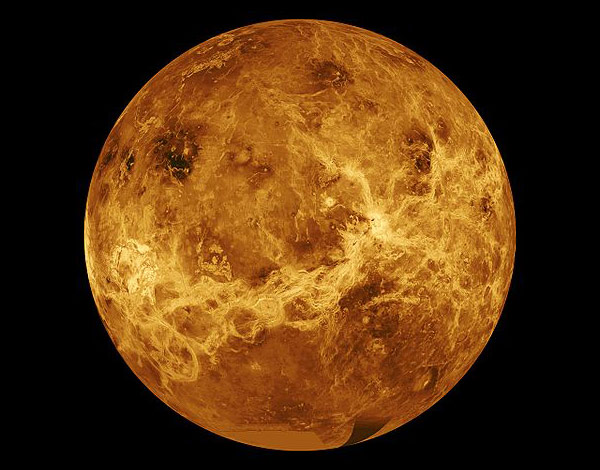
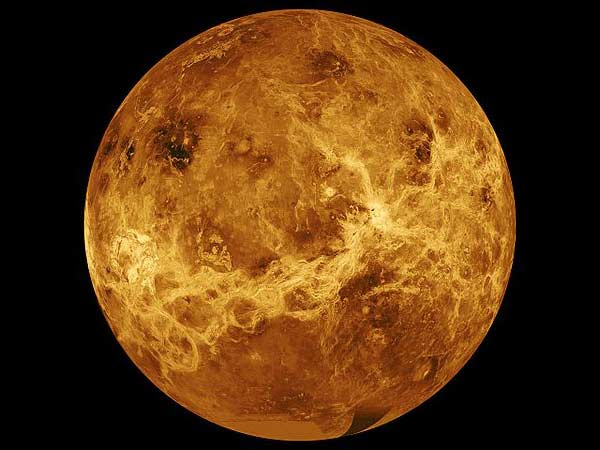
added new images that are sized better

Changed region(s): [[0.15, 0.0, 0.87, 0.4978], [0.15, 0.5289, 0.87, 0.9956], [0.33, 0.4044, 0.36, 0.4356]]

diff --git a/index.html b/index.html
@@ -52,7 +52,9 @@
 		<div class="grid venus-fact">
 			<div class="unit unit-xs-1 unit-s-1 unit-m-1-3 unit-l-1-3">
 				<figure>
-					<img class="img-flex" src="img/venus-1.jpg" alt="A picture of Venus">
+					<div class="embed embed--1by1">
+						<img class="img-flex" src="img/venus-1.jpg" alt="A picture of Venus">
+					</div
 					<figcaption>Global radar view of the surface from Magellan radar imaging between 1990 and 1994.</figcaption>
 				</figure>
 			</div>
